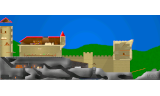
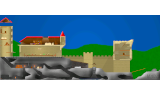
content: the Reloaded skies on glowing parallax layers, the factory's with stars (#63)

Changed region(s): [[0.0, 0.1562, 1.0, 0.5312]]

diff --git a/crates/olr-cli/tests/reloaded.rs b/crates/olr-cli/tests/reloaded.rs
@@ -3,7 +3,8 @@
 //! `skin.rs`), shipped beside the imported ones: each
 //! checks clean against the committed content, none shares an id with it,
 //! the game's content lists them, a bot match plays on each, Liero Factory
-//! Reloaded is OLX's Liero Factory byte for byte but for its look, and
+//! Reloaded is OLX's Liero Factory but for its look and its distant sky's
+//! stars (issue #63), and
 //! Liero v1.0 Reloaded plays exactly as Classic (`olx-classic`) but for its
 //! name and look. On the GPU tier each plays and draws lit.
 
@@ -92,12 +93,45 @@ fn the_bundled_content_lists_the_reloaded_levels() {
 
 /// The factory's gameplay and art are OLX's: its composition (checked
 /// fresh by `reloaded_packs_check_clean`) bakes the imported level's
-/// material, front and back byte for byte; only the look is added.
+/// material byte for byte, and its front and back pixel for pixel but
+/// where the sky is see-through (issue #63): there the distant sky
+/// (`distant/0.png`, level-sized at its reference placement) shows the
+/// imported sky, but for its stars. Only the look and the stars are added.
 #[test]
 fn the_factory_is_the_imported_level_but_for_its_look() {
+    use olr_format::image_io::decode_rgba;
     let (ours, olx) = (reloaded_dir().join(FACTORY), packs_dir().join("olx-level-liero-factory"));
-    for file in ["material.png", "front.png", "back.png"] {
-        assert!(std::fs::read(ours.join(file)).unwrap() == std::fs::read(olx.join(file)).unwrap(), "{file}");
+    let read = |p: PathBuf| decode_rgba(&std::fs::read(&p).unwrap()).unwrap();
+    assert!(
+        std::fs::read(ours.join("material.png")).unwrap() == std::fs::read(olx.join("material.png")).unwrap()
+    );
+    let sky = read(ours.join("distant/0.png"));
+    for file in ["front.png", "back.png"] {
+        let (a, b) = (read(ours.join(file)), read(olx.join(file)));
+        assert_eq!((a.width(), a.height()), (b.width(), b.height()), "{file}");
+        assert_eq!((sky.width(), sky.height()), (a.width(), a.height()), "the sky is level-sized");
+        let (mut through, mut stars) = (0, 0);
+        for y in 0..a.height() {
+            for x in 0..a.width() {
+                let (p, old) = (a.get(x, y), b.get(x, y));
+                if p.a != 0 {
+                    assert_eq!(p, old, "{file} ({x}, {y})");
+                    continue;
+                }
+                through += 1;
+                let s = sky.get(x, y);
+                assert!(p.same_rgb(s), "{file} ({x}, {y}): the distant sky's colour");
+                // A star is pale; the sky is blue.
+                if !s.same_rgb(old) {
+                    assert!(s.r >= 0x90, "{file} ({x}, {y}): only a star differs from OLX's sky");
+                    stars += 1;
+                }
+            }
+        }
+        assert!(
+            through > 100_000 && stars > 0 && stars * 100 < through,
+            "{file}: {through} see-through, {stars} stars"
+        );
     }
     let (a, b) = (
         olr_pack::read_manifest(&DirFs::new(&ours)).unwrap(),
